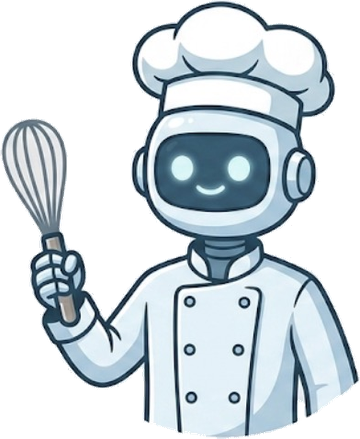
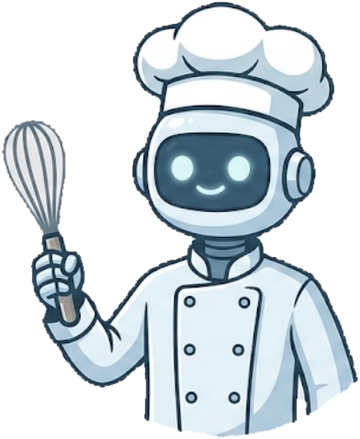
Share the frosted nav site-wide, frost the feature cards, fix illustration rim
Every page carried its own inline nav rule, so introduce assets/site-glass.css
and link it last in each head; at equal specificity the later rule wins, which
restyles the bar across all 19 pages from one file. The homepage marks its bar
.nav-overlay to cancel its own height so the kitchen artwork still starts at
the top of the page.

- Hang the mobile menu beneath the bar at the same width, radius and frosting.
  It was a full-bleed sheet, which left a strip of page showing between the two
  and read as an unrelated layer.
- Frost the meal library / nutrition / pantry cards, over a soft colour wash so
  the glass has something to pick up against the plain white section
- Strip the pale rim around the cut-out illustrations: bleed the ink colour
  outward before trimming the alpha, otherwise the pixels left on the edge are
  a blend of artwork and backdrop and the rim survives any amount of trimming
- Overlap the wave dividers by a pixel to close the hairline seam that showed
  where they met the section below

Claude-Session: https://claude.ai/code/session_016fLsX8cQRT6owQLstLgZbH

diff --git a/index.html b/index.html
@@ -56,26 +56,13 @@
     :focus-visible { outline: 2px solid var(--amber); outline-offset: 3px; border-radius: 4px; }
 
     /* ── NAV ── */
-    /* Frosted bar floating over the hero. The negative bottom margin cancels its
-       own height so the hero still starts at the top of the page. */
-    nav {
-      position: sticky; top: 14px; z-index: 200;
-      height: var(--nav-h);
-      width: min(1360px, calc(100% - clamp(24px, 5vw, 72px)));
-      margin: 14px auto calc((var(--nav-h) + 14px) * -1);
-      padding: 0 clamp(14px, 3vw, 26px);
-      display: flex; align-items: center; justify-content: space-between;
-      background: rgba(255,255,255,0.5);
-      backdrop-filter: blur(20px) saturate(150%);
-      -webkit-backdrop-filter: blur(20px) saturate(150%);
-      border: 1px solid rgba(255,255,255,0.55);
-      border-radius: 18px;
-      box-shadow: 0 10px 34px rgba(20,40,70,0.12);
-      transition: background 0.3s, box-shadow 0.3s;
-    }
-    nav.scrolled {
-      background: rgba(255,255,255,0.74);
-      box-shadow: 0 12px 40px rgba(20,40,70,0.18);
+    /* The bar itself is styled site-wide in /assets/site-glass.css. Here it only
+       needs to stop occupying space, so the kitchen artwork starts at the very
+       top of the page and the bar floats over it. The class selector outranks
+       the shared file's plain `nav` rules whichever order they load in. */
+    nav.nav-overlay { margin-bottom: calc((var(--nav-h) + 14px) * -1); }
+    @media (max-width: 767px) {
+      nav.nav-overlay { margin-bottom: -68px; }
     }
     .logo { display: flex; align-items: center; text-decoration: none; }
     .logo img { height: 44px; width: auto; object-fit: contain; }
@@ -99,7 +86,7 @@
     .nav-hamburger.open span:nth-child(2) { opacity: 0; }
     .nav-hamburger.open span:nth-child(3) { transform: translateY(-7px) rotate(-45deg); }
     .mobile-menu {
-      display: none; position: fixed; top: calc(var(--nav-h) + 28px); left: 0; right: 0; bottom: 0;
+      display: none; position: fixed; left: 0; right: 0; bottom: 0;
       background: rgba(249,248,245,0.97); backdrop-filter: blur(16px);
       z-index: 199; flex-direction: column; align-items: center; justify-content: center; gap: 2rem;
     }
@@ -313,7 +300,10 @@
 
     /* ── WAVE DIVIDERS ── */
     .wave { display: block; width: 100%; overflow: hidden; line-height: 0; }
-    .wave svg { display: block; width: 100%; }
+    /* The svg height is derived from its viewBox, so at most widths it lands on a
+       fractional pixel and leaves a hairline of the divider's own background
+       showing against the section below. Overlap by a pixel to close the seam. */
+    .wave svg { display: block; width: 100%; margin-bottom: -1px; }
 
     /* ── FEATURES ── */
     .features-section { background: white; padding: 80px 0 40px; }
@@ -400,8 +390,28 @@
 
     /* Mini features grid */
     .features-grid-mini { max-width: 1160px; margin: 0 auto; padding: 0 clamp(16px, 5vw, 80px) 60px; display: grid; grid-template-columns: repeat(3,1fr); gap: 20px; border-top: 1px solid var(--border); padding-top: 52px; }
-    .mini-card { background: var(--surface); border: 1px solid var(--border); border-radius: var(--radius); padding: 28px; transition: box-shadow 0.2s, transform 0.2s; }
-    .mini-card:hover { box-shadow: 0 8px 30px rgba(30,80,140,0.09); transform: translateY(-3px); }
+    /* Frosted cards. The section behind them is plain white, so a soft colour wash
+       sits under the row to give the glass something to pick up. */
+    .features-grid-mini { position: relative; }
+    .features-grid-mini::before {
+      content: ''; position: absolute; z-index: 0; pointer-events: none;
+      inset: 34px clamp(0px, 2vw, 30px) 34px;
+      border-radius: 46px;
+      background:
+        radial-gradient(58% 100% at 26% 50%, hsla(205,72%,58%,0.13) 0%, transparent 72%),
+        radial-gradient(52% 100% at 84% 42%, hsla(150,48%,52%,0.11) 0%, transparent 72%);
+    }
+    .mini-card {
+      position: relative; z-index: 1;
+      background: linear-gradient(140deg, rgba(255,255,255,0.92) 0%, rgba(248,251,254,0.62) 100%);
+      backdrop-filter: blur(16px) saturate(145%);
+      -webkit-backdrop-filter: blur(16px) saturate(145%);
+      border: 1px solid rgba(255,255,255,0.92);
+      box-shadow: 0 10px 30px rgba(20,40,70,0.09);
+      border-radius: var(--radius); padding: 28px;
+      transition: box-shadow 0.2s, transform 0.2s;
+    }
+    .mini-card:hover { box-shadow: 0 16px 42px rgba(20,40,70,0.15); transform: translateY(-3px); }
     .mini-icon { width: 52px; height: 52px; border-radius: 14px; display: grid; place-items: center; margin-bottom: 16px; }
     .mini-icon svg { width: 28px; height: 28px; fill: none; stroke-width: 2; stroke-linecap: round; stroke-linejoin: round; }
     .mini-card h3 { font-size: 1.05rem; font-weight: 700; margin-bottom: 8px; }
@@ -634,11 +644,12 @@
       .ing-herbs   { width: 86px;  height: 86px;  top: 14px; right: -32px; }
     }
   </style>
+  <link rel="stylesheet" href="/assets/site-glass.css" />
 </head>
 <body>
 
 <!-- ── NAV ── -->
-<nav id="main-nav">
+<nav id="main-nav" class="nav-overlay">
   <a href="/" class="logo"><img src="/logo.png" alt="FoodieFlow" /></a>
   <div class="nav-links">
     <a href="#features">Features</a>

diff --git a/assets/site-glass.css b/assets/site-glass.css
@@ -1,0 +1,101 @@
+/* ──────────────────────────────────────────────────────────────
+   Shared frosted navigation bar.
+
+   Every page carries its own inline <style> with its own `nav {}` rule, so
+   this file is linked *after* that block in each <head>. At equal specificity
+   the later rule wins, which lets one file restyle the bar site-wide without
+   touching 19 separate inline blocks.
+
+   Pages that need the bar to overlay artwork behind it (the homepage hero)
+   add `class="nav-overlay"` and cancel the bar's height locally. That rule is
+   `nav.nav-overlay`, which outranks the plain `nav` selectors here regardless
+   of source order.
+   ────────────────────────────────────────────────────────────── */
+
+nav {
+  position: sticky;
+  top: 14px;
+  z-index: 200;
+  box-sizing: border-box;
+  height: 64px;
+  width: min(1360px, calc(100% - clamp(24px, 5vw, 72px)));
+  margin: 14px auto 0;
+  padding: 0 clamp(14px, 3vw, 26px);
+  display: flex;
+  align-items: center;
+  justify-content: space-between;
+
+  background: rgba(255, 255, 255, 0.5);
+  -webkit-backdrop-filter: blur(20px) saturate(150%);
+  backdrop-filter: blur(20px) saturate(150%);
+  border: 1px solid rgba(255, 255, 255, 0.55);
+  border-radius: 18px;
+  box-shadow: 0 10px 34px rgba(20, 40, 70, 0.12);
+  transition: background 0.3s, box-shadow 0.3s;
+}
+
+/* Pages whose script adds .scrolled get a firmer bar once the page moves. */
+nav.scrolled {
+  background: rgba(255, 255, 255, 0.74);
+  box-shadow: 0 12px 40px rgba(20, 40, 70, 0.18);
+}
+
+/* ── Mobile menu ──────────────────────────────────────────────
+   Pages render this as a full-bleed sheet pinned to the viewport edges, which
+   next to the floating bar left a strip of page showing through and read as a
+   separate, unrelated layer. Instead it hangs directly beneath the bar as a
+   panel of the same width, radius and frosting, so the two read as one control.
+   ────────────────────────────────────────────────────────────── */
+.mobile-menu {
+  /* clears the floating bar: 14px offset + 64px bar + 14px breathing room */
+  top: 92px;
+  left: 50%;
+  right: auto;
+  bottom: auto;
+  transform: translateX(-50%);
+  box-sizing: border-box;
+  width: min(1360px, calc(100% - clamp(24px, 5vw, 72px)));
+  max-height: calc(100vh - 116px);
+  overflow-y: auto;
+
+  justify-content: flex-start;
+  gap: 0.4rem;
+  padding: 20px 16px 24px;
+
+  background: rgba(255, 255, 255, 0.62);
+  -webkit-backdrop-filter: blur(24px) saturate(150%);
+  backdrop-filter: blur(24px) saturate(150%);
+  border: 1px solid rgba(255, 255, 255, 0.6);
+  border-radius: 18px;
+  box-shadow: 0 20px 54px rgba(20, 40, 70, 0.2);
+}
+
+/* Full-width rows so the tap target matches the panel, not just the label. */
+.mobile-menu a {
+  width: 100%;
+  justify-content: center;
+  padding: 13px 10px;
+  border-radius: 12px;
+}
+
+/* Browsers without backdrop-filter (older Firefox) would render these
+   near-transparent, so fall back to a mostly opaque panel. */
+@supports not ((backdrop-filter: blur(1px)) or (-webkit-backdrop-filter: blur(1px))) {
+  nav { background: rgba(255, 255, 255, 0.93); }
+  nav.scrolled { background: rgba(255, 255, 255, 0.97); }
+  .mobile-menu { background: rgba(255, 255, 255, 0.96); }
+}
+
+@media (max-width: 767px) {
+  nav {
+    height: 58px;
+    border-radius: 15px;
+    margin-top: 10px;
+    top: 10px;
+  }
+  .mobile-menu {
+    top: 78px;
+    border-radius: 15px;
+    max-height: calc(100vh - 96px);
+  }
+}

diff --git a/download/index.html b/download/index.html
@@ -184,6 +184,7 @@
       .footer-bottom { flex-direction: column; align-items: flex-start; }
     }
   </style>
+  <link rel="stylesheet" href="/assets/site-glass.css" />
 </head>
 <body>
 

diff --git a/privacy/index.html b/privacy/index.html
@@ -147,6 +147,7 @@
       .footer-bottom { flex-direction: column; align-items: flex-start; }
     }
   </style>
+  <link rel="stylesheet" href="/assets/site-glass.css" />
 </head>
 <body>
 

diff --git a/support/index.html b/support/index.html
@@ -222,6 +222,7 @@
       .footer-bottom { flex-direction: column; align-items: flex-start; }
     }
   </style>
+  <link rel="stylesheet" href="/assets/site-glass.css" />
 </head>
 <body>
 

diff --git a/terms/index.html b/terms/index.html
@@ -128,6 +128,7 @@
       .footer-bottom { flex-direction: column; align-items: flex-start; }
     }
   </style>
+  <link rel="stylesheet" href="/assets/site-glass.css" />
 </head>
 <body>
 

diff --git a/blog/ai-meal-planning-apps-2026-compared/index.html b/blog/ai-meal-planning-apps-2026-compared/index.html
@@ -208,6 +208,7 @@
       .footer-inner { grid-template-columns: 1fr; }
     }
   </style>
+  <link rel="stylesheet" href="/assets/site-glass.css" />
 </head>
 <body>
 <!-- NAV -->

diff --git a/blog/best-meal-planning-apps-2026/index.html b/blog/best-meal-planning-apps-2026/index.html
@@ -222,6 +222,7 @@
       .footer-inner { grid-template-columns: 1fr; }
     }
   </style>
+  <link rel="stylesheet" href="/assets/site-glass.css" />
 </head>
 <body>
 <!-- NAV -->

diff --git a/blog/index.html b/blog/index.html
@@ -173,6 +173,7 @@
       .footer-inner { grid-template-columns: 1fr; }
     }
   </style>
+  <link rel="stylesheet" href="/assets/site-glass.css" />
 </head>
 <body>
 <!-- NAV -->

diff --git a/blog/pantry-aware-meal-planning/index.html b/blog/pantry-aware-meal-planning/index.html
@@ -179,6 +179,7 @@
       .footer-inner { grid-template-columns: 1fr; }
     }
   </style>
+  <link rel="stylesheet" href="/assets/site-glass.css" />
 </head>
 <body>
 <!-- NAV -->

diff --git a/food-waste-calculator/index.html b/food-waste-calculator/index.html
@@ -217,6 +217,7 @@
       .footer-inner { grid-template-columns: 1fr; }
     }
   </style>
+  <link rel="stylesheet" href="/assets/site-glass.css" />
 </head>
 <body>
 <!-- NAV -->

diff --git a/compare/foodieflow-vs-mealime/index.html b/compare/foodieflow-vs-mealime/index.html
@@ -221,6 +221,7 @@
       .footer-inner { grid-template-columns: 1fr; }
     }
 </style>
+  <link rel="stylesheet" href="/assets/site-glass.css" />
 </head>
 <body>
 <!-- NAV -->
